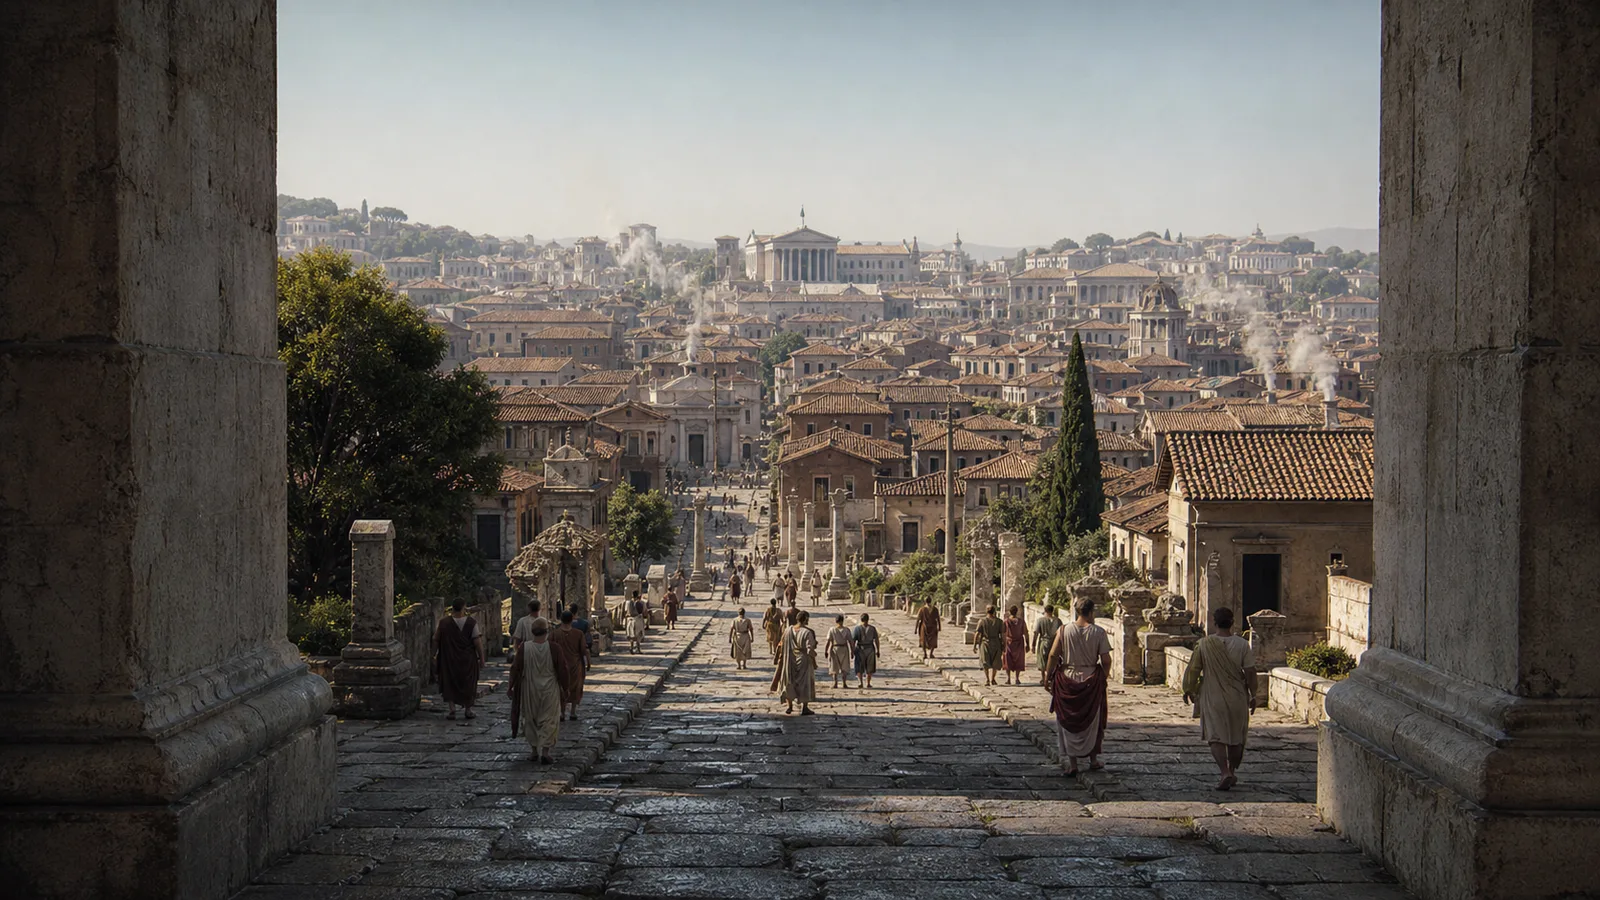
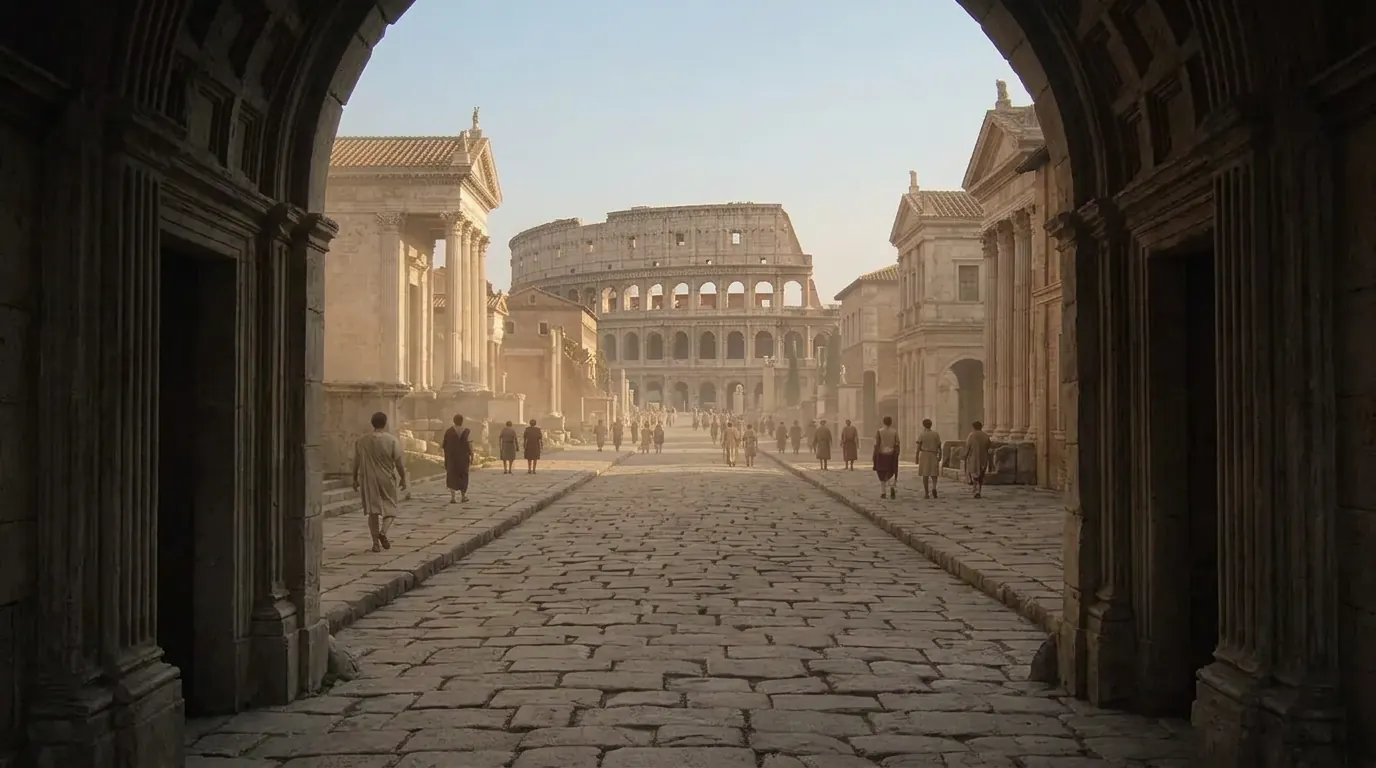
Smooth the opening into the Roman journey (#6)
* Add public GitHub Pages deployment

* Replace illustrated scenes with photorealistic Rome imagery

* Add scroll-driven journey through Roman landmarks

* Improve continuity across Roman scene frames

* Smooth camera follow and align opening frame

---------

diff --git a/app.js b/app.js
@@ -36,6 +36,9 @@ let requestedPair = '';
 let pairRequest = 0;
 let blend = 0;
 let journeyProgress = 0;
+let cameraPosition = window.scrollY;
+let targetScroll = window.scrollY;
+let lastFrameTime = 0;
 let scrollFrame = 0;
 
 function loadPhoto(name) {
@@ -119,9 +122,8 @@ function rebuildTimeline() {
   ].sort((a, b) => a.at - b.at);
 }
 
-function renderJourney() {
+function renderJourney(position = scrollY) {
   if (!timeline.length) return;
-  const position = scrollY;
   let index = 0;
   while (index < timeline.length - 2 && position >= timeline[index + 1].at) index++;
   const from = timeline[index];
@@ -136,26 +138,43 @@ function renderJourney() {
   loadPhoto(next.photo);
 }
 
-function updateJourney() {
+function updateJourney(position = scrollY) {
   let active = 0;
   const focus = innerHeight * 0.5;
   sections.forEach((section, index) => {
-    if (section.getBoundingClientRect().top <= focus) active = index;
+    const sectionTop = section.getBoundingClientRect().top + scrollY;
+    if (sectionTop <= position + focus) active = index;
   });
   railLinks.forEach((link, index) => link.classList.toggle('active', index === active));
-  renderJourney();
+  renderJourney(position);
 
   const maxScroll = Math.max(1, document.documentElement.scrollHeight - innerHeight);
-  const progress = Math.max(0, Math.min(1, scrollY / maxScroll));
+  const progress = Math.max(0, Math.min(1, position / maxScroll));
   document.documentElement.style.setProperty('--progress', `${progress * 100}%`);
 }
 
-function scheduleJourneyUpdate() {
-  if (scrollFrame) return;
-  scrollFrame = requestAnimationFrame(() => {
+function advanceJourney(time) {
+  const elapsed = lastFrameTime ? Math.min(time - lastFrameTime, 50) : 16.67;
+  lastFrameTime = time;
+  const follow = reducedMotion ? 1 : 1 - Math.exp(-elapsed / 85);
+  cameraPosition += (targetScroll - cameraPosition) * follow;
+
+  if (Math.abs(targetScroll - cameraPosition) < 0.35) {
+    cameraPosition = targetScroll;
+    updateJourney(cameraPosition);
     scrollFrame = 0;
-    updateJourney();
-  });
+    lastFrameTime = 0;
+    return;
+  }
+
+  updateJourney(cameraPosition);
+  scrollFrame = requestAnimationFrame(advanceJourney);
+}
+
+function scheduleJourneyUpdate() {
+  targetScroll = scrollY;
+  if (scrollFrame) return;
+  scrollFrame = requestAnimationFrame(advanceJourney);
 }
 
 if ('IntersectionObserver' in window) {

diff --git a/spec.md b/spec.md
@@ -16,7 +16,7 @@ An editorial, cinematic invitation to an imagined exhibition about ancient Rome.
 - **Palette:** midnight indigo, Roman terracotta, warm limestone, muted Egyptian blue, and sunset ochre. The scene moves gradually from cool pre-dawn to warm evening.
 - **Typography:** Italiana display faces for the monumental headlines; DM Sans for readable body copy; DM Mono for coordinates, labels and wayfinding.
 - **Composition:** large quiet type, restrained rules and annotations, generous negative space, fine film grain, and photorealistic historical reconstructions of Roman streets, the Colosseum, and Forum. Avoid generic rounded-card UI.
-- **Motion:** scroll scrubs a continuous, forward-moving sequence of matched first-person frames—from the gate along the Via Sacra, through a consistent Colosseum approach, entrance, passage, arena, and exit toward the Forum. Adjacent frames share perspective, light, and architecture; long crossfades and one persistent camera push follow scroll position. The Colosseum scene has a longer scroll runway, and reduced-motion preferences disable camera movement.
+- **Motion:** scroll scrubs a continuous, forward-moving sequence of matched first-person frames—from a shadowed gate opening onto the Via Sacra, through a consistent Colosseum approach, entrance, passage, arena, and exit toward the Forum. Adjacent frames share perspective, light, and architecture; long eased crossfades and a lightly damped camera follow make movement feel continuous. The Colosseum scene has a longer scroll runway, and reduced-motion preferences disable camera movement and damping.
 
 ## Build and interaction constraints
 - Use locally bundled, optimized WebP scene imagery, with a dark contrast overlay behind text and responsive cover cropping. Avoid depending on WebGL or remote image requests.

diff --git a/README.md b/README.md
@@ -13,7 +13,7 @@ Vite binds to `0.0.0.0` for preview environments. Use `npm run build` to make a 
 
 ## Implementation notes
 
-- A coordinated set of locally generated, photorealistic frames creates one forward camera path from the city gate, along the Via Sacra, into the Colosseum, through its passage and arena, then out toward the Forum. Adjacent frames share architecture, perspective, lighting, and camera direction; scroll blends and moves through them as one longer shot.
+- A coordinated set of locally generated, photorealistic frames creates one forward camera path from a shadowed city gate along the Via Sacra, into the Colosseum, through its passage and arena, then out toward the Forum. The opening frame now matches the street ahead. Adjacent frames share architecture, perspective, lighting, and camera direction; eased crossfades and a lightly damped camera follow make scroll feel more like one continuous shot.
 - Italiana, DM Sans, and DM Mono are bundled locally so the design does not depend on a third-party font request.
 - The ticket form demonstrates client-side ticket/guest pricing, validation, and a reservation-preview success state. It does not store a booking or send email; the interface says so explicitly.
 
